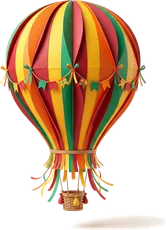
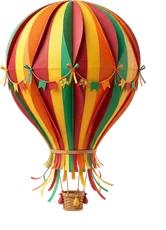
Point OG/Twitter meta + og:url to the custom domain ottok.com.br
Custom domain ottok.com.br (+ www) being added in Cloudflare. Update absolute
social URLs from arraia-do-otto.pages.dev → ottok.com.br; fix meta CTA text to
"sô!"; note the domain in CLAUDE.md.

Changed region(s): [[0.4518, 0.9435, 0.9639, 1.0], [0.3916, 0.2739, 0.4217, 0.3043], [0.1506, 0.4565, 0.1807, 0.487]]

diff --git a/index.html b/index.html
@@ -8,20 +8,20 @@
     <title>Arraiá do Otto — O Otto vai fazê 1 aninho!</title>
     <meta
       name="description"
-      content="Cês tão tudo convidado, sô! Vem pro arraiá de 1 ano do Otto — 27 de junho de 2026, das 12h às 18h, na Arena Bombinhas. Confirma a presença, ó!"
+      content="Cês tão tudo convidado, sô! Vem pro arraiá de 1 ano do Otto — 27 de junho de 2026, das 12h às 18h, na Arena Bombinhas. Confirma a presença, sô!"
     />
 
     <!-- Open Graph / WhatsApp preview -->
     <meta property="og:type" content="website" />
-    <meta property="og:url" content="https://arraia-do-otto.pages.dev/" />
+    <meta property="og:url" content="https://ottok.com.br/" />
     <meta property="og:title" content="Arraiá do Otto — O Otto vai fazê 1 aninho!" />
     <meta
       property="og:description"
-      content="Cês tão tudo convidado, sô! 27/06/2026, 12h às 18h, na Arena Bombinhas. Confirma a presença, ó!"
+      content="Cês tão tudo convidado, sô! 27/06/2026, 12h às 18h, na Arena Bombinhas. Confirma a presença, sô!"
     />
     <meta property="og:locale" content="pt_BR" />
-    <meta property="og:image" content="https://arraia-do-otto.pages.dev/og.jpg" />
-    <meta property="og:image:secure_url" content="https://arraia-do-otto.pages.dev/og.jpg" />
+    <meta property="og:image" content="https://ottok.com.br/og.jpg" />
+    <meta property="og:image:secure_url" content="https://ottok.com.br/og.jpg" />
     <meta property="og:image:type" content="image/jpeg" />
     <meta property="og:image:width" content="1200" />
     <meta property="og:image:height" content="630" />
@@ -32,9 +32,9 @@
     <meta name="twitter:title" content="Arraiá do Otto — O Otto vai fazê 1 aninho!" />
     <meta
       name="twitter:description"
-      content="Cês tão tudo convidado, sô! 27/06/2026, 12h às 18h, na Arena Bombinhas. Confirma a presença, ó!"
+      content="Cês tão tudo convidado, sô! 27/06/2026, 12h às 18h, na Arena Bombinhas. Confirma a presença, sô!"
     />
-    <meta name="twitter:image" content="https://arraia-do-otto.pages.dev/og.jpg" />
+    <meta name="twitter:image" content="https://ottok.com.br/og.jpg" />
 
     <!-- Fonts: Rye (rustic woodtype display) + Nunito (friendly body) -->
     <link rel="preconnect" href="https://fonts.googleapis.com" />

diff --git a/CLAUDE.md b/CLAUDE.md
@@ -70,7 +70,7 @@ CREATE TABLE IF NOT EXISTS rsvps (
 - `wrangler d1 execute rsvp-db --local --file ./schema.sql` — apply schema to the local D1.
 - `wrangler d1 execute rsvp-db --local --command "SELECT * FROM rsvps"` — read local rows.
 - Image assets go in `public/img/*.webp` (see [docs/IMAGES.md](docs/IMAGES.md)).
-- `pnpm og` — regenerate the social-share card `public/og.jpg` (1200×630) from `scripts/make-og.mjs`. Fonts auto-download to `assets-raw/fonts/` (gitignored). The OG/Twitter `<meta>` URLs in `index.html` are absolute to `arraia-do-otto.pages.dev` — update them if the domain changes.
+- `pnpm og` — regenerate the social-share card `public/og.jpg` (1200×630) from `scripts/make-og.mjs` (wood frame + balloon garland + "número 1" Otto from `assets-raw/og-otto.png`). Fonts auto-download to `assets-raw/fonts/` (gitignored). The OG/Twitter `<meta>` URLs in `index.html` are absolute — currently `https://ottok.com.br` (the custom domain). Update them if the domain changes.
 - pnpm build-script approvals live in `pnpm-workspace.yaml` (`allowBuilds:` esbuild/workerd/sharp).
 
 ## RSVP backend (`functions/api/rsvp.js`)
@@ -82,6 +82,8 @@ validate name (400 if empty / >120) → verify Turnstile **only if `TURNSTILE_SE
 
 ### Deploy — LIVE ✅
 
+Custom domain: **ottok.com.br** + **www.ottok.com.br** (external registrar, nameservers moved to
+Cloudflare; added as Pages custom domains). OG/Twitter meta + `og:url` point to `https://ottok.com.br`.
 Deployed 2026-05-31 to **[arraia-do-otto.pages.dev](https://arraia-do-otto.pages.dev)** (Pages project `arraia-do-otto`,
 production branch `main`). D1 `rsvp-db` id `1fd48f81-a469-459e-862a-f3b5a3eb7368`, binding `DB`,
 schema applied remote. Full prod round-trip verified (POST /api/rsvp → D1 write → delete).